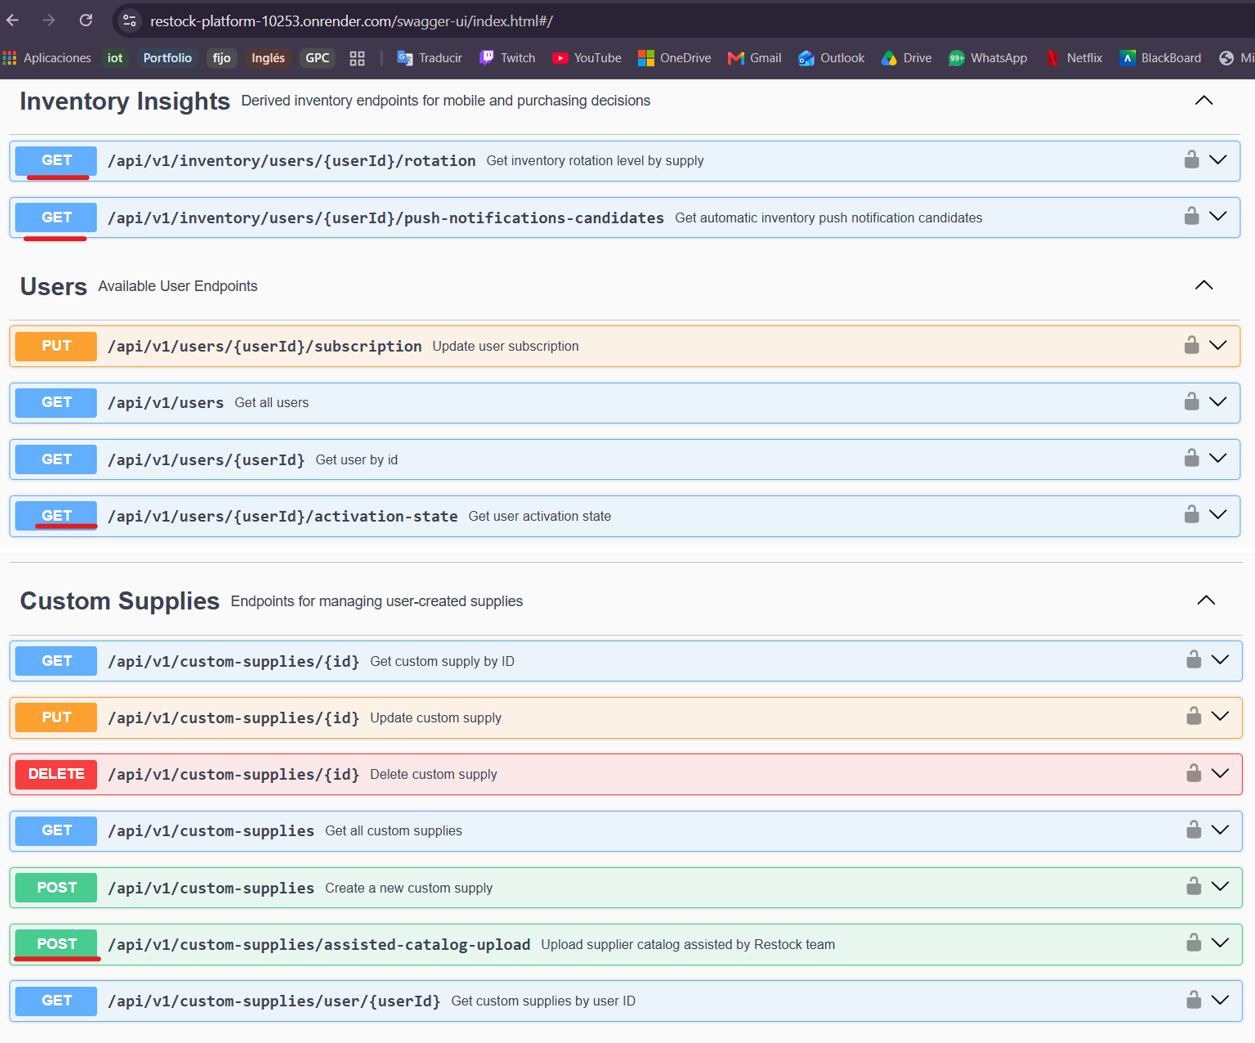
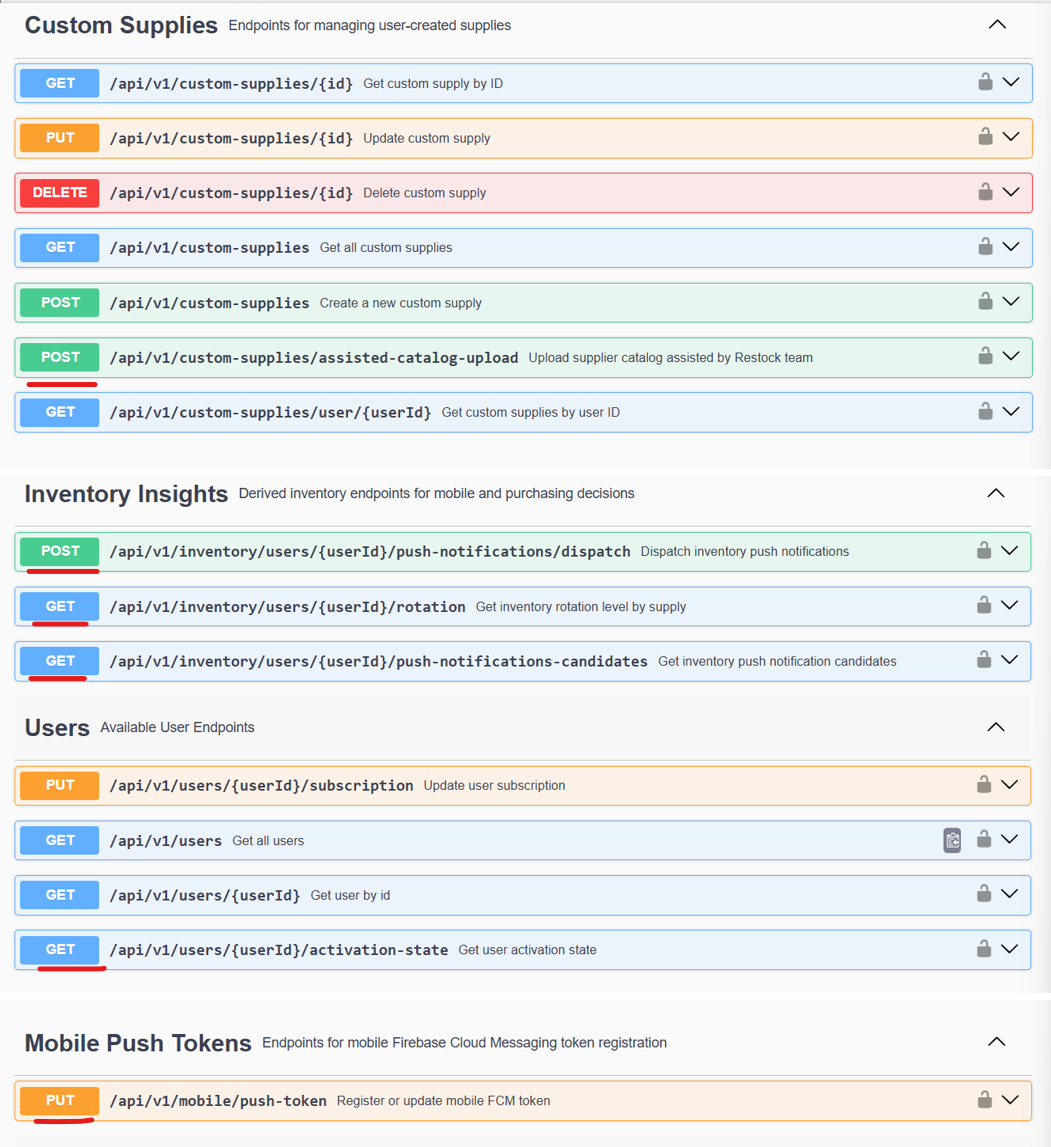
feat: update implemented restful api evidence

diff --git a/08-chap8-experiment-driven-development.md b/08-chap8-experiment-driven-development.md
@@ -913,7 +913,7 @@ El presente Sprint Backlog corresponde al sprint de experimentación To-Be de Re
 
 En esta sección se presenta la evidencia de implementación del backend RESTful correspondiente al Sprint Backlog 4 de experimentación To-Be. Los cambios realizados en el backend permiten dar soporte a las historias de usuario experimentales definidas anteriormente: notificaciones automáticas de inventario, estado de activación para el primer pedido, carga asistida del catálogo de proveedores e indicador de rotación por insumo.
 
-El objetivo de esta implementación no fue construir módulos finales de alta complejidad, sino habilitar los endpoints necesarios para ejecutar y evidenciar los experimentos definidos en el ciclo Experiment-Driven Development. Por ello, los endpoints implementados se enfocan en exponer datos accionables para la aplicación web y móvil, permitiendo validar hipótesis asociadas a reducción de mermas, adopción digital, digitalización de proveedores y toma de decisiones basada en datos.
+El objetivo de esta implementación fue habilitar los endpoints necesarios para ejecutar y evidenciar los experimentos definidos en el ciclo Experiment-Driven Development. Por ello, los endpoints implementados se enfocan en exponer datos accionables para la aplicación web y móvil, permitiendo validar hipótesis asociadas a reducción de mermas, adopción digital, digitalización de proveedores y toma de decisiones basada en datos.
 
 ##### Backend Repository Evidence
 
@@ -923,42 +923,48 @@ El objetivo de esta implementación no fue construir módulos finales de alta co
 | restock-platform | feature/inventory | 62b92c0   | feat(resource): add endpoint for upload custom supplies catalog      | 03/07/2026          |
 | restock-platform | feature/inventory | 4ea56cf   | feat(resource): add push notification resource                       | 03/07/2026          |
 | restock-platform | feature/inventory | c6d35d1   | feat(resource): add inventory rotation resource and endpoint         | 03/07/2026          |
-
-<img src="assets/images/chapter8/to-be-backend/backend_repository_commits.png" width="700px" alt="backend repository commits for to-be experiment sprint">
+| restock-platform | feature/iam       | 7dc60fe   | feat(notifications): add firebase connection                         | 03/07/2026          |
+| restock-platform | feature/iam       | 03d2865   | feat(notifications): add firebase configuration                      | 03/07/2026          |
 
 ##### Implemented Backend Features by To-Be User Story
 
 ###### US-37 — Notificaciones push automáticas de inventario en dispositivo móvil
 
-Para la historia US-37, se implementó un recurso orientado a identificar insumos candidatos a generar alertas automáticas de inventario. Esta funcionalidad permite detectar situaciones relevantes para el experimento de reducción de mermas, principalmente insumos con riesgo operativo por stock bajo o vencimiento próximo.
+Para la historia US-37, se implementó soporte backend para el flujo de notificaciones automáticas de inventario mediante Firebase Cloud Messaging. Esta implementación permite cubrir tres responsabilidades principales: registrar el token FCM generado por la aplicación móvil, identificar insumos candidatos a alerta por stock bajo o vencimiento próximo, y despachar notificaciones push hacia el dispositivo móvil del administrador.
 
-El endpoint implementado expone los candidatos a notificación para que la aplicación móvil o el servicio de notificaciones pueda utilizarlos como base.
+El flujo implementado mantiene una separación adecuada de responsabilidades. La aplicación móvil obtiene el token FCM desde Firebase y lo registra en el backend. Luego, el backend detecta las condiciones críticas de inventario y, cuando corresponde, envía la notificación mediante Firebase Cloud Messaging. De esta forma, el backend conserva la lógica de negocio relacionada con inventario y la aplicación móvil se encarga de recibir la notificación y redirigir al usuario a la pantalla correspondiente.
 
-| Method | Endpoint                                                           | Description                                                                                                                                                           | Related User Story |
-| :----- | :----------------------------------------------------------------- | :-------------------------------------------------------------------------------------------------------------------------------------------------------------------- | :----------------- |
-| GET    | `/api/v1/inventory/users/{userId}/push-notifications-candidates` | Obtiene los candidatos a notificación automática de inventario para un usuario, considerando insumos que requieren atención por stock bajo o vencimiento próximo. | US-37              |
+| Method | Endpoint                                                           | Description                                                                                                                                          | Related User Story |
+| :----- | :----------------------------------------------------------------- | :--------------------------------------------------------------------------------------------------------------------------------------------------- | :----------------- |
+| PUT    | `/api/v1/mobile/push-token`                                      | Registra o actualiza el FCM token del dispositivo móvil para que el backend pueda enviar notificaciones push al usuario autenticado o identificado. | US-37              |
+| GET    | `/api/v1/inventory/users/{userId}/push-notifications-candidates` | Obtiene los insumos candidatos a notificación automática de inventario, considerando condiciones como stock bajo o vencimiento próximo.           | US-37              |
+| POST   | `/api/v1/inventory/users/{userId}/push-notifications/dispatch`   | Despacha las notificaciones push de inventario hacia los dispositivos móviles registrados mediante Firebase Cloud Messaging.                        | US-37              |
 
-Este endpoint contribuye al experimento porque permite obtener la evidencia base para validar si las alertas automáticas pueden ayudar al administrador a actuar preventivamente sobre insumos en riesgo. Además, permite sustentar técnicamente la existencia de una fuente backend para generar alertas de inventario.
+El endpoint `PUT /api/v1/mobile/push-token` es necesario porque el token FCM es generado por la aplicación móvil y puede cambiar si el usuario reinstala la aplicación, cambia de dispositivo o Firebase refresca el token. Por ello, el backend lo recibe y lo guarda de forma actualizable para asociarlo al usuario correspondiente.
+
+El endpoint `GET /api/v1/inventory/users/{userId}/push-notifications-candidates` permite validar qué insumos cumplen condiciones de alerta antes de enviar una notificación. Este endpoint es útil para evidenciar la lógica de detección de riesgos de inventario desde Swagger UI.
+
+El endpoint `POST /api/v1/inventory/users/{userId}/push-notifications/dispatch` ejecuta el envío real de las notificaciones. Para ello, reutiliza los candidatos detectados, busca los tokens FCM activos del usuario y envía el mensaje mediante Firebase Cloud Messaging. La notificación enviada incluye datos como el tipo de alerta, el identificador del insumo personalizado y el identificador del lote, permitiendo que la aplicación móvil abra la pantalla de inventario, detalle del insumo o alertas cuando el usuario toca la notificación.
 
 ###### US-38 — Flujo de onboarding guiado para el primer pedido
 
-Para la historia US-38, el backend no implementa el flujo visual del onboarding, ya que este pertenece a la experiencia de usuario en el frontend. Sin embargo, se incorporó soporte en el contexto de IAM para exponer un parámetro relacionado con el estado de activación del usuario frente a su primer pedido.
+Para la historia US-38, el backend no implementa el flujo visual del onboarding, ya que este pertenece a la experiencia de usuario de la aplicación móvil. Sin embargo, se incorporó soporte en el contexto de usuarios para exponer un parámetro relacionado con el estado de activación del usuario frente a su primer pedido.
 
-Este cambio permite identificar si el usuario ya realizó la acción clave del negocio, es decir, completar o iniciar su primer pedido. De esta manera, la aplicación puede decidir si debe mostrar nuevamente el flujo guiado.
+Este cambio permite identificar si el usuario ya realizó la acción clave del negocio, es decir, completar o iniciar su primer pedido. De esta manera, la aplicación móvil puede decidir si corresponde mostrar nuevamente el flujo guiado sin que el backend tenga que conocer pantallas, pasos o lógica propia de interfaz.
 
-| Method | Endpoint                                    | Description                                                                                                                                                                | Related User Story |
-| :----- | :------------------------------------------ | :------------------------------------------------------------------------------------------------------------------------------------------------------------------------- | :----------------- |
-| GET    | `/api/v1/users/{userId}/activation-state` | Se agregó un parámetro de estado de activación asociado al primer pedido, permitiendo que el frontend o mobile determine si corresponde mostrar el flujo de onboarding. | US-38              |
+| Method | Endpoint                                    | Description                                                                                                                                                          | Related User Story |
+| :----- | :------------------------------------------ | :------------------------------------------------------------------------------------------------------------------------------------------------------------------- | :----------------- |
+| GET    | `/api/v1/users/{userId}/activation-state` | Obtiene el estado de activación del usuario relacionado con su primer pedido, permitiendo que la aplicación móvil determine si debe mostrar el onboarding guiado. | US-38              |
 
 ###### US-39 — Carga asistida del catálogo de productos del proveedor
 
-Para la historia US-39, se implementó un endpoint que permite cargar insumos personalizados al catálogo del proveedor. Esta funcionalidad da soporte al experimento de viabilidad del ecosistema de proveedores, en el cual el equipo de Restock puede asistir al proveedor durante la digitalización inicial de su catálogo.
+Para la historia US-39, se implementó un endpoint que permite cargar insumos personalizados al catálogo del proveedor mediante un flujo asistido por el equipo de Restock. Esta funcionalidad da soporte al experimento de viabilidad del ecosistema de proveedores, en el cual se busca validar si proveedores tradicionales están dispuestos a digitalizar su catálogo con acompañamiento inicial.
 
 La carga asistida permite registrar productos con información relevante para que luego puedan ser visualizados y utilizados dentro del flujo de pedidos. Esto reduce la fricción inicial del proveedor tradicional, ya que no necesita realizar toda la configuración por sí mismo durante la primera sesión de demostración.
 
-| Method | Endpoint                                   | Description                                                                                                                          | Related User Story |
-| :----- | :----------------------------------------- | :----------------------------------------------------------------------------------------------------------------------------------- | :----------------- |
-| POST   | `/api/v1/custom-supplies/catalog/upload` | Permite cargar productos o insumos personalizados al catálogo, facilitando la digitalización asistida del catálogo del proveedor. | US-39              |
+| Method | Endpoint                                            | Description                                                                                                         | Related User Story |
+| :----- | :-------------------------------------------------- | :------------------------------------------------------------------------------------------------------------------ | :----------------- |
+| POST   | `/api/v1/custom-supplies/assisted-catalog-upload` | Permite cargar productos o insumos personalizados al catálogo mediante un flujo asistido por el equipo de Restock. | US-39              |
 
 Este endpoint contribuye directamente al Concierge Test definido para proveedores, ya que permite preparar o registrar un catálogo digital mínimo para demostrar cómo el proveedor podría recibir pedidos desde la plataforma.
 
@@ -974,38 +980,42 @@ La funcionalidad permite clasificar los insumos según su comportamiento de cons
 
 Este endpoint permite que la aplicación web muestre información de rotación en el inventario y sustenta la hipótesis de que los administradores pueden tomar mejores decisiones cuando reciben datos operativos claros antes de generar una orden de compra.
 
-##### Swagger / OpenAPI Evidence
+##### OpenAPI / Swagger UI Evidence
 
-La documentación de los nuevos endpoints fue expuesta mediante Swagger UI, permitiendo validar las rutas implementadas y su disponibilidad para consumo desde las aplicaciones cliente. En la categoría **Inventory Insights**, se evidencian los endpoints asociados a rotación de inventario y candidatos de notificaciones push.
+La documentación de los nuevos endpoints fue generada bajo la especificación OpenAPI y expuesta mediante Swagger UI. Esto permite validar las rutas implementadas, los métodos HTTP disponibles y su disponibilidad para consumo desde las aplicaciones cliente.
 
-| Swagger Section    | Endpoint                                                               | Purpose                                                                 |
-| :----------------- | :--------------------------------------------------------------------- | :---------------------------------------------------------------------- |
-| Inventory Insights | `GET /api/v1/inventory/users/{userId}/rotation`                      | Consultar el nivel de rotación de inventario por insumo.               |
-| Inventory Insights | `GET /api/v1/inventory/users/{userId}/push-notifications-candidates` | Consultar candidatos de notificación automática de inventario.        |
-| Custom Supplies    | `POST /api/v1/custom-supplies/catalog/upload`                        | Cargar productos del catálogo del proveedor de forma asistida.         |
-| Users              | `GET /api/v1/users/{userId}/activation-state`                        | Exponer estado de activación relacionado al primer pedido del usuario. |
+En la evidencia de Swagger UI se observan los endpoints relacionados con las funcionalidades To-Be implementadas: carga asistida de catálogo, dispatch de notificaciones push, rotación de inventario, candidatos de notificación, estado de activación del usuario y registro de tokens FCM para mobile.
 
-<img src="assets/images/chapter8/to-be-backend/inventory_insights_swagger.png" width="600px" alt="swagger evidence for inventory insights endpoints">
+| Swagger Section    | Endpoint                                                               | Purpose                                                                     |
+| :----------------- | :--------------------------------------------------------------------- | :-------------------------------------------------------------------------- |
+| Custom Supplies    | `POST /api/v1/custom-supplies/assisted-catalog-upload`               | Cargar productos del catálogo del proveedor de forma asistida.             |
+| Inventory Insights | `POST /api/v1/inventory/users/{userId}/push-notifications/dispatch`  | Enviar notificaciones push de inventario mediante Firebase Cloud Messaging. |
+| Inventory Insights | `GET /api/v1/inventory/users/{userId}/rotation`                      | Consultar el nivel de rotación de inventario por insumo.                   |
+| Inventory Insights | `GET /api/v1/inventory/users/{userId}/push-notifications-candidates` | Consultar candidatos de notificación automática de inventario.            |
+| Users              | `GET /api/v1/users/{userId}/activation-state`                        | Exponer el estado de activación relacionado al primer pedido del usuario.  |
+| Mobile Push Tokens | `PUT /api/v1/mobile/push-token`                                      | Registrar o actualizar el FCM token de la aplicación móvil.               |
+
+<img src="assets/images/chapter8/to-be-backend/inventory_insights_swagger.png" width="800px" alt="swagger evidence for to-be backend endpoints including inventory insights and mobile push tokens">
 
 ##### Backend Deployment Evidence
 
-El backend se mantiene desplegado en Render, permitiendo el acceso público a la documentación Swagger y la validación de los endpoints implementados para el Sprint Backlog 4. El despliegue permite que los servicios RESTful puedan ser consumidos por la aplicación web y móvil durante la ejecución de los experimentos To-Be.
+El backend se mantiene desplegado en Render, permitiendo el acceso público a la documentación Swagger UI y la validación de los endpoints implementados para el Sprint Backlog 4. El despliegue permite que los servicios RESTful puedan ser consumidos por la aplicación web y móvil durante la ejecución de los experimentos To-Be.
 
 **Link de despliegue del backend:**
 [https://restock-platform-10253.onrender.com/swagger-ui/index.html](https://restock-platform-10253.onrender.com/swagger-ui/index.html)
 
-<img src="assets/images/chapter8/to-be-backend/backend_swagger_deployment.png" width="600px" alt="to-be backend swagger deployment evidence">
+<img src="assets/images/chapter8/to-be-backend/backend_swagger_deployment.png" width="700px" alt="to-be backend swagger deployment evidence">
 
 ##### Summary of Implemented To-Be RESTful API Support
 
-| To-Be User Story                                                 | Backend Evidence                                                             | Experiment Supported                                        |
-| :--------------------------------------------------------------- | :--------------------------------------------------------------------------- | :---------------------------------------------------------- |
-| US-37 — Notificaciones push automáticas de inventario          | Endpoint para obtener candidatos de notificación de inventario por usuario. | Experimento 01 — Validación de impacto en mermas.         |
-| US-38 — Flujo de onboarding guiado para el primer pedido        | Parámetro de estado de activación relacionado con el primer pedido.        | Experimento 02 — Validación de adopción digital.         |
-| US-39 — Carga asistida del catálogo de productos del proveedor | Endpoint para carga asistida de insumos personalizados al catálogo.         | Experimento 03 — Viabilidad del ecosistema de proveedores. |
-| US-40 — Indicador de nivel de rotación por insumo              | Endpoint para consultar rotación de inventario por insumo.                  | Experimento 04 — Comportamiento basado en datos.           |
+| To-Be User Story                                                 | Backend Evidence                                                                                                                          | Experiment Supported                                        |
+| :--------------------------------------------------------------- | :---------------------------------------------------------------------------------------------------------------------------------------- | :---------------------------------------------------------- |
+| US-37 — Notificaciones push automáticas de inventario          | Registro de FCM token móvil, consulta de candidatos a notificación y dispatch de notificaciones push mediante Firebase Cloud Messaging. | Experimento 01 — Validación de impacto en mermas.         |
+| US-38 — Flujo de onboarding guiado para el primer pedido        | Endpoint para consultar el estado de activación del usuario relacionado con el primer pedido.                                            | Experimento 02 — Validación de adopción digital.         |
+| US-39 — Carga asistida del catálogo de productos del proveedor | Endpoint para carga asistida de insumos personalizados al catálogo del proveedor.                                                        | Experimento 03 — Viabilidad del ecosistema de proveedores. |
+| US-40 — Indicador de nivel de rotación por insumo              | Endpoint para consultar rotación de inventario por insumo.                                                                               | Experimento 04 — Comportamiento basado en datos.           |
 
-Con estos cambios, el backend RESTful de Restock queda alineado con el Sprint Backlog 4 y proporciona soporte técnico suficiente para ejecutar los experimentos To-Be. Las funcionalidades implementadas permiten recolectar evidencia operativa sobre alertas, activación del usuario, digitalización de proveedores y decisiones de compra basadas en indicadores de inventario.
+Con estos cambios, el backend RESTful de Restock queda alineado con el Sprint Backlog 4 y proporciona soporte técnico suficiente para ejecutar los experimentos To-Be. Las funcionalidades implementadas permiten recolectar evidencia operativa sobre alertas, activación del usuario, digitalización de proveedores y decisiones de compra basadas en indicadores de inventario. Además, la integración con Firebase Cloud Messaging permite completar el flujo real de notificaciones push desde el backend hacia la aplicación móvil.
 
 #### 8.3.3.6. Team Collaboration Insights
 
@@ -1278,13 +1288,13 @@ El flujo de aprendizaje seguido por el equipo durante la sesión se estructuró 
 
 #### Descripción del flujo de aprendizaje
 
-| Etapa                                  | Descripción                                                                                                          | Artefacto generado                   |
-| :------------------------------------- | :-------------------------------------------------------------------------------------------------------------------- | :----------------------------------- |
-| 1. Evidencia recolectada               | Se consolidaron métricas, observaciones de entrevistas, capturas, videos y resultados de los experimentos To-Be.     | Matriz de evidencia por experimento. |
-| 2. Síntesis de hallazgos              | El equipo agrupó los hallazgos por patrón: alertas, onboarding, catálogo de proveedores y rotación de inventario. | Tabla de hallazgos principales.      |
-| 3. Interpretación frente a hipótesis | Cada hallazgo fue comparado con su hipótesis H1 y H0 para determinar el nivel de soporte obtenido.                   | Matriz hipótesis vs. evidencia.     |
-| 4. Decisiones de producto              | Se definió si cada funcionalidad debía mantenerse, ajustarse, escalarse o investigarse nuevamente.                  | Tabla de decisiones de producto.     |
-| 5. Consolidación de aprendizajes finales | Se organizaron las decisiones finales del equipo y las recomendaciones derivadas de los resultados obtenidos. | Matriz de recomendaciones finales. |
+| Etapa                                     | Descripción                                                                                                          | Artefacto generado                   |
+| :---------------------------------------- | :-------------------------------------------------------------------------------------------------------------------- | :----------------------------------- |
+| 1. Evidencia recolectada                  | Se consolidaron métricas, observaciones de entrevistas, capturas, videos y resultados de los experimentos To-Be.     | Matriz de evidencia por experimento. |
+| 2. Síntesis de hallazgos                 | El equipo agrupó los hallazgos por patrón: alertas, onboarding, catálogo de proveedores y rotación de inventario. | Tabla de hallazgos principales.      |
+| 3. Interpretación frente a hipótesis    | Cada hallazgo fue comparado con su hipótesis H1 y H0 para determinar el nivel de soporte obtenido.                   | Matriz hipótesis vs. evidencia.     |
+| 4. Decisiones de producto                 | Se definió si cada funcionalidad debía mantenerse, ajustarse, escalarse o investigarse nuevamente.                  | Tabla de decisiones de producto.     |
+| 5. Consolidación de aprendizajes finales | Se organizaron las decisiones finales del equipo y las recomendaciones derivadas de los resultados obtenidos.         | Matriz de recomendaciones finales.   |
 
 #### Matriz de aprendizaje por experimento
 